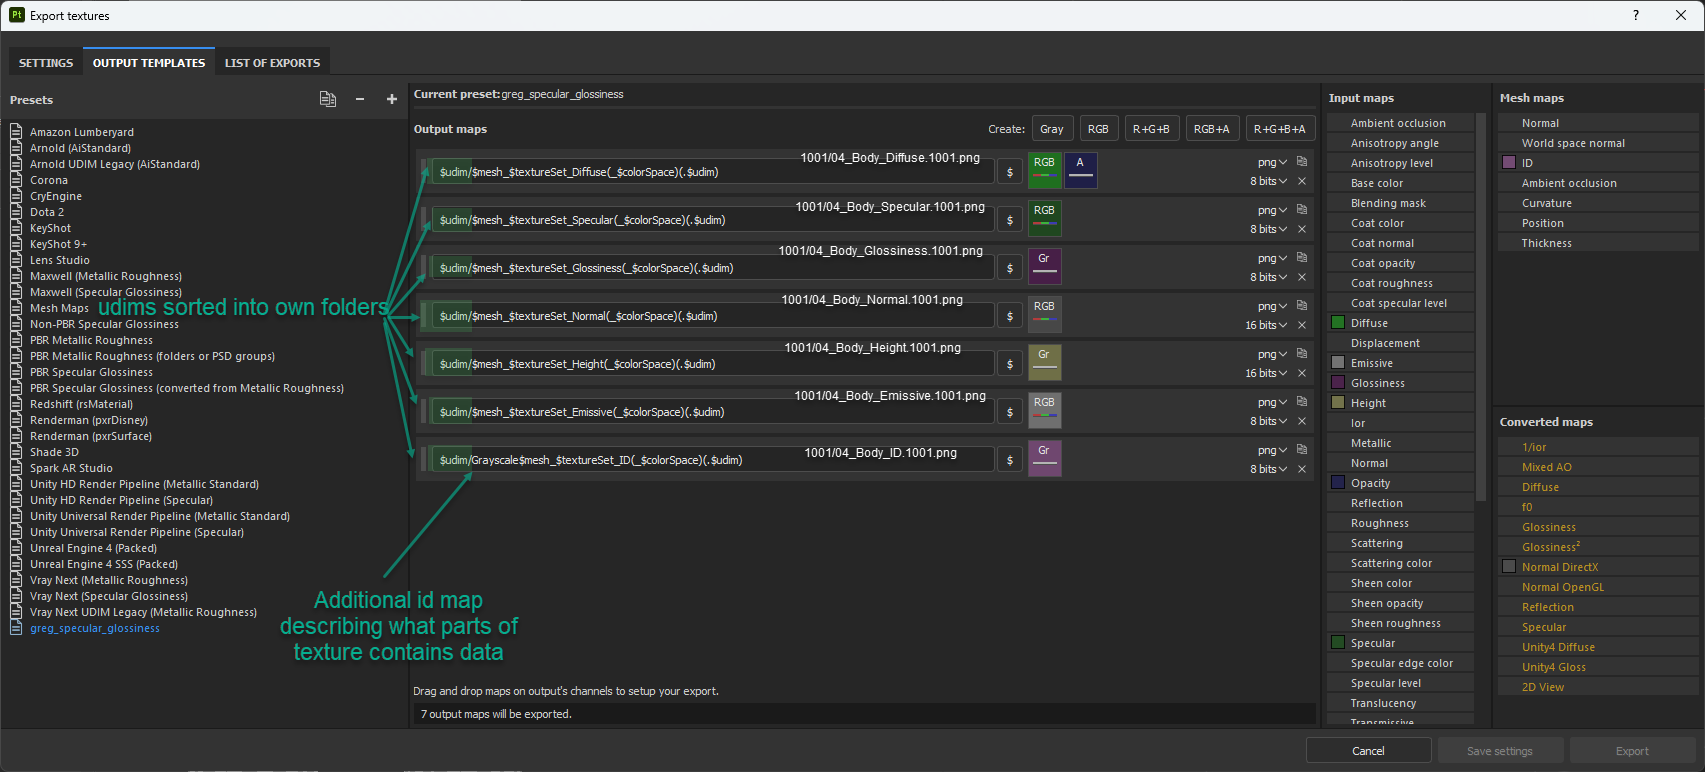
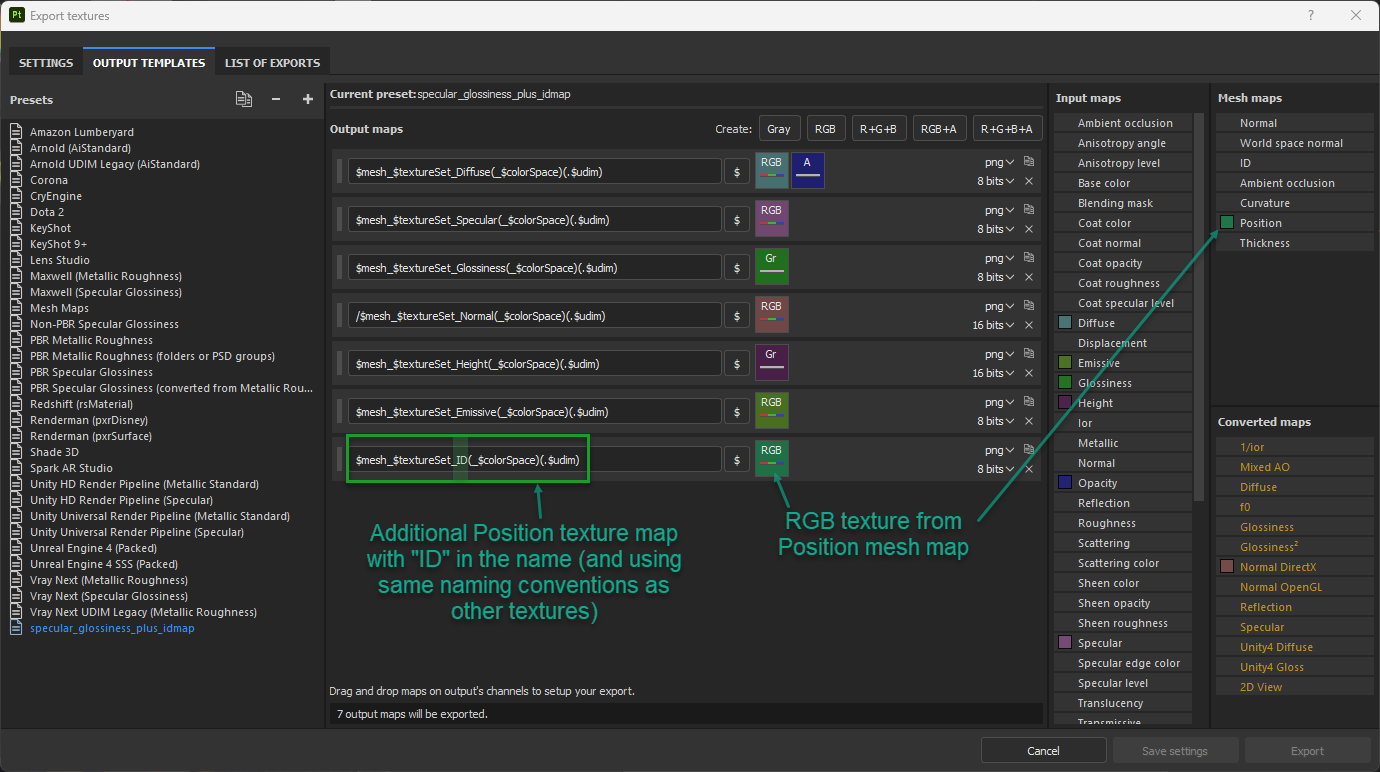
Update readme

diff --git a/README.md b/README.md
@@ -7,11 +7,10 @@
  
 ![Screenshot of Substance Painter export settings](misc/substance.png)
 Note:
-1. There is an idmap exported, which is used to determine which texture belongs to which object.
-2. UDIMS (if used) are sorted into folders (and the script needs to be run against each folder separately, no UDIM support yet)
+1. Exported ID map uses same naming conventions as other textures, and includes "ID" in name
 
 ## 2: Run the script
 ```
-python3 main.py ./exampledata/udim/1001/*.png ./mytextures
+python3 main.py ./texturesCreatedFromSubstance/*.png ./output
 ```
-This will spit out a texture for each type of texture (basecolor, normal, etc) in the `mytextures` folder.
+This will spit out a texture for each type of texture (basecolor, normal, etc) in the `output` folder.
